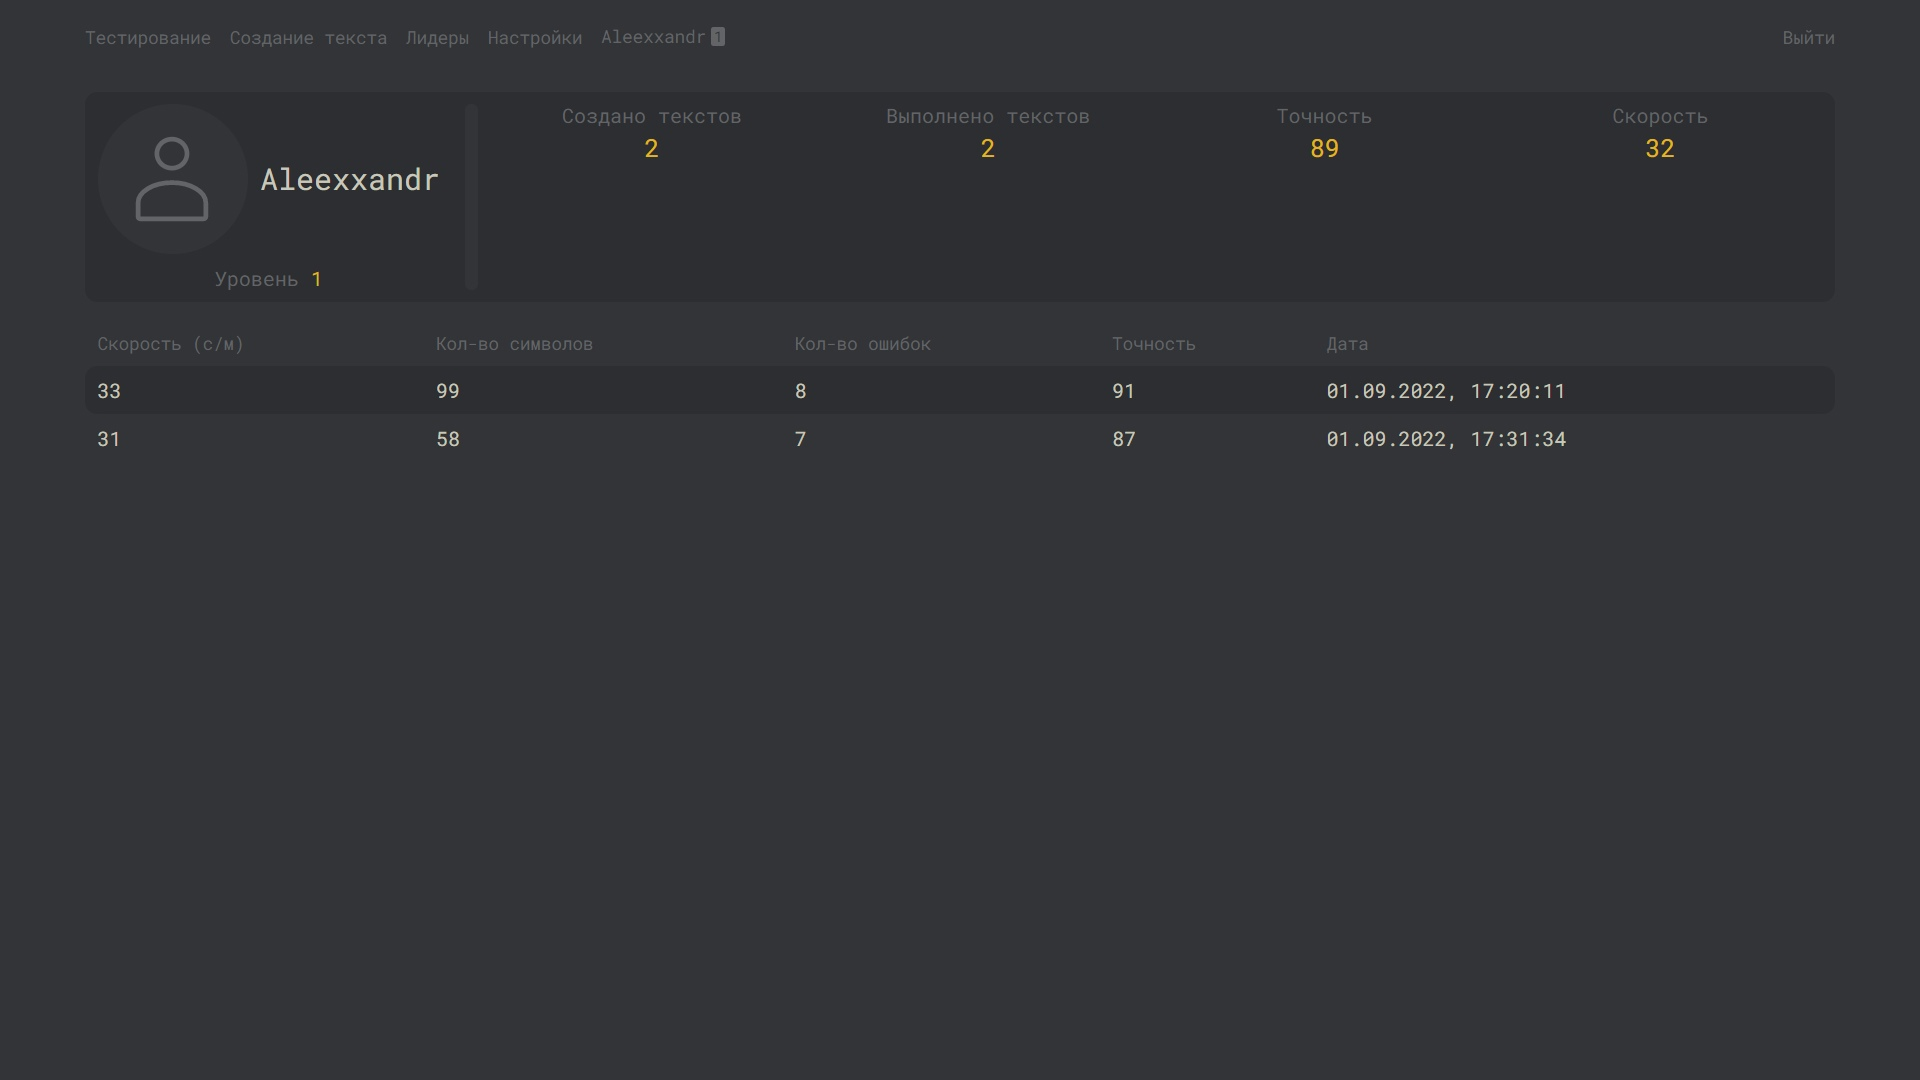
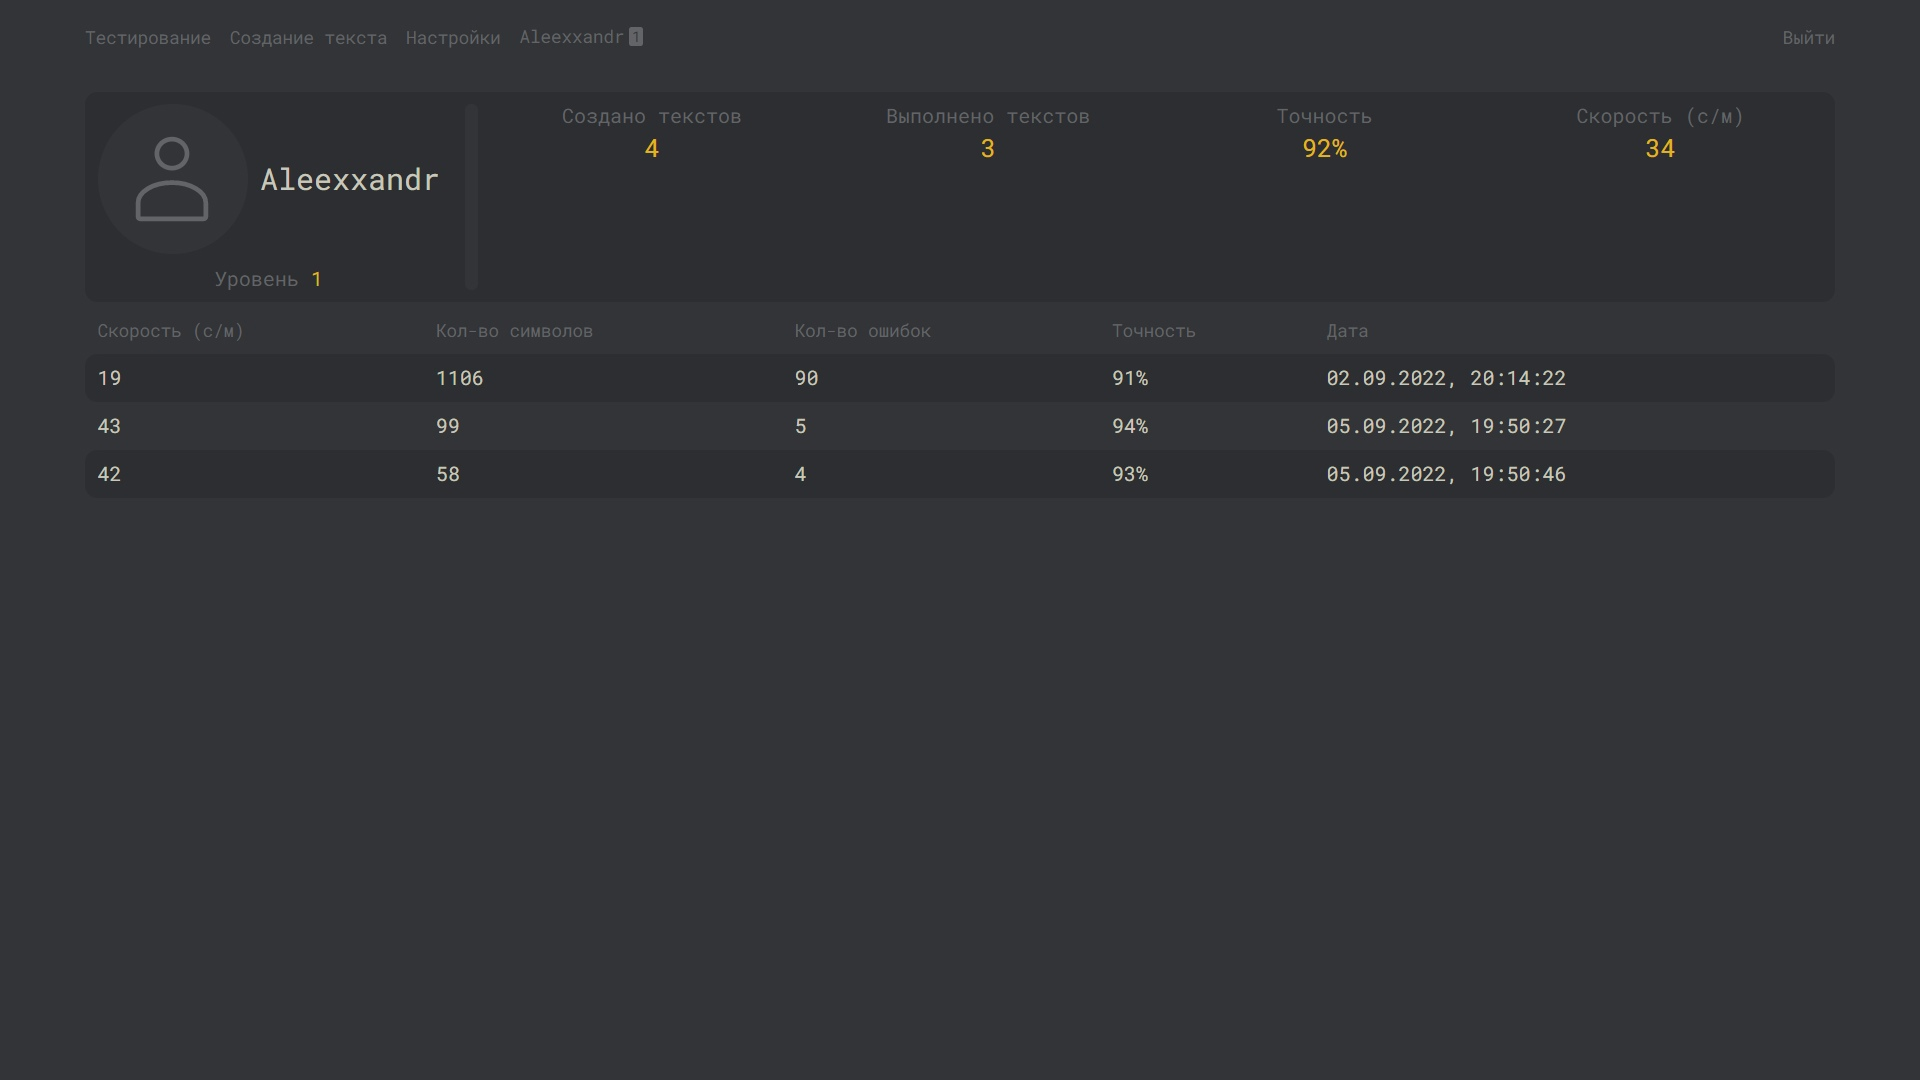
удалил страницу лидеры

diff --git a/server/app.js b/server/app.js
@@ -28,11 +28,9 @@ connectToDatabase();
 const authRouter = require("./routers/auth.router");
 const profileRouter = require("./routers/profile.router");
 const textRouter = require("./routers/text.router");
-const leadersRouter = require("./routers/leaders.router");
 
 app.use("/auth", authRouter);
 app.use("/profile", profileRouter);
 app.use("/text", textRouter);
-app.use("/leaders", leadersRouter);
 
 module.exports = app;

diff --git a/components/vHeader.vue b/components/vHeader.vue
@@ -58,10 +58,6 @@
           title: "Создание текста",
         },
         {
-          link: "/leaders",
-          title: "Лидеры",
-        },
-        {
           link: "/settings",
           title: "Настройки",
         }
